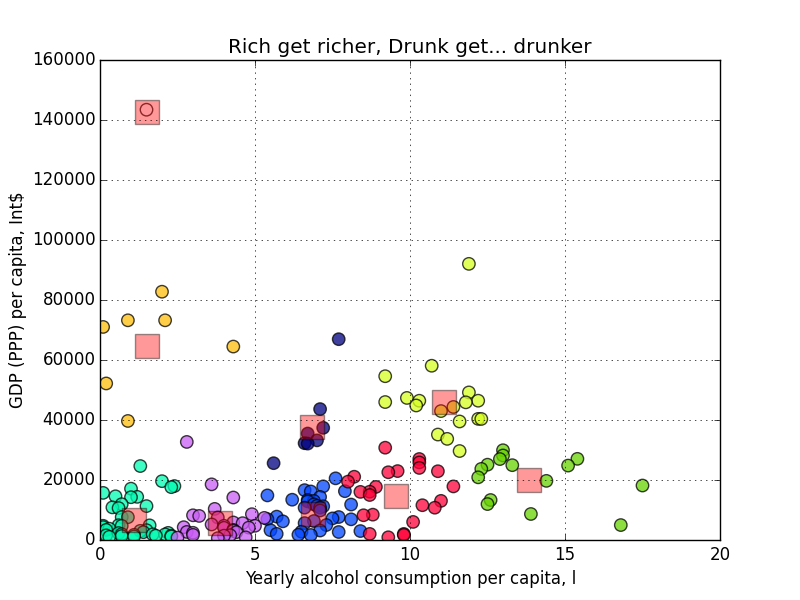
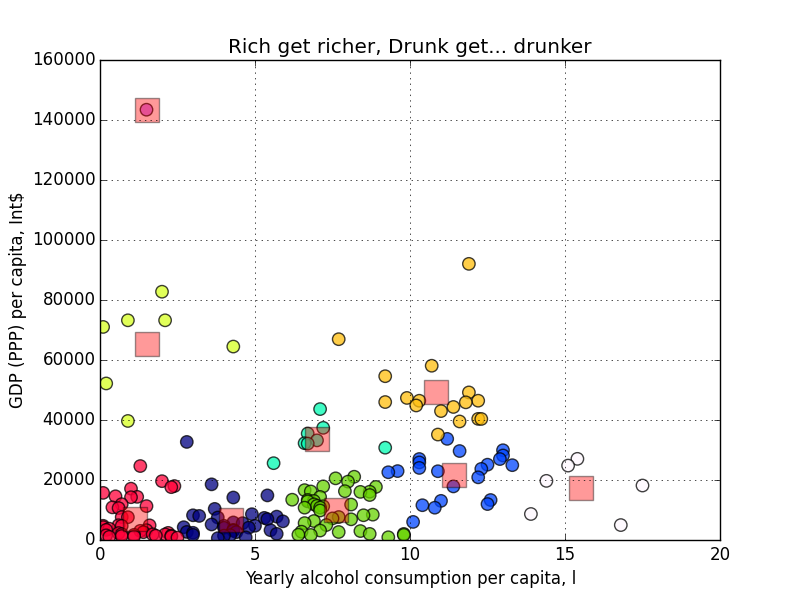
Comments added

diff --git a/EarnNDrink/alcohol.py b/EarnNDrink/alcohol.py
@@ -5,37 +5,57 @@ import pandas as pd
 import sklearn.cluster
 import matplotlib.pyplot as plt
 
-soup1 = BeautifulSoup (urllib.request.urlopen ("https://en.wikipedia.org/wiki/List_of_countries_by_alcohol_consumption_per_capita"))
+ALCO_SOURCE = "https://en.wikipedia.org/wiki/List_of_countries_by_alcohol_consumption_per_capita"
+GDP_SOURCE = "https://en.wikipedia.org/wiki/List_of_countries_by_GDP_(PPP)_per_capita"
 
+# Cook the soup and find sortable tables
+soup1 = BeautifulSoup (urllib.request.urlopen (ALCO_SOURCE))
 tabs1 = soup1.findAll ("table", {"class" : "wikitable sortable"})
 
+# Extract the rows, the headers, and the rest of the data
 rows1 = tabs1[1].findAll ('tr')
 headers1 = ['.'.join (x.text.split ()) for x in rows1[0].findAll ('th')]
 body1 = [[x.text.strip () for x in r.findAll ('td')] for r in rows1[1:]]
+
+# Create a data frame
 alc = pd.DataFrame (body1, columns = headers1)
 alc.set_index (headers1[0], inplace = True)
+
+# Process NAs and convert strings to doubles
 alc[alc == ''] = np.nan
 alc[alc == '-'] = np.nan
 alc = alc.astype (float, copy = False)
 
 print (alc.describe ())
 
-soup2 = BeautifulSoup (urllib.request.urlopen ("https://en.wikipedia.org/wiki/List_of_countries_by_GDP_(PPP)_per_capita"))
+# Cook the soup and find sortable tables
+soup2 = BeautifulSoup (urllib.request.urlopen (GDP_SOURCE))
 tabs2 = soup2.findAll ("table", {"class" : "wikitable sortable"})
+
+# Extract the rows, the headers, and the rest of the data
 rows2 = tabs2[0].findAll ('tr')
 headers2 = ['.'.join (x.text.split ()) for x in rows2[0].findAll ('th')]
 body2 = [[x.text.strip () for x in r.findAll ('td')] for r in rows2[1:]]
+
+# Create a data frame
 gdp = pd.DataFrame (body2, columns = headers2)
 gdp.set_index (headers2[1], inplace = True)
+
+# Process NAs and convert strings to doubles
 gdp[gdp == '—'] = np.nan
 gdp[gdp == '-'] = np.nan
 gdp[gdp == ''] = np.nan
 gdp['Int$'] = gdp['Int$'].str.replace (',', '').astype (float)
+
 print (gdp.describe ())
 
+# Join the data frames by index, remove NA rows
 combined = gdp.join (alc)[['Total', 'Int$']].dropna ()
+
+# Is there any correlation?
 print (combined.corr ())
 
+# Scale the numbers to be in the range [0..1]
 minTotal = combined["Total"].min ()
 rangeTotal = combined["Total"].max () - combined["Total"].min ()
 minIntD = combined["Int$"].min ()
@@ -44,27 +64,35 @@ rangeIntD = combined["Int$"].max () - combined["Int$"].min ()
 combined["Total.n"] = (combined["Total"] - minTotal) / rangeTotal
 combined["Int$.n"] = (combined["Int$"] - minIntD) / rangeIntD
 
+# I want 9 clusters
 NC = 9
 kmeans = sklearn.cluster.KMeans (n_clusters = NC) 
 combined["Cluster"] = kmeans.fit_predict (combined[["Total.n","Int$.n"]])
 combined.sort (["Cluster", "Int$"], ascending = [True, False], inplace = True)
-centers = pd.DataFrame (kmeans.cluster_centers_,
-                        columns = ["Total", "Int$"]) \
-                        * np.array ((rangeTotal, rangeIntD)) \
-                        + np.array (minTotal, minIntD)
+
+# Unscale the cluster centers
+centersDF = pd.DataFrame (kmeans.cluster_centers_, columns = ["Total", "Int$"])
+centers = centersDF * np.array ((rangeTotal, rangeIntD)) \
+    + np.array ((minTotal, minIntD))
                         
+# List the clusters
 print ('\n\n'.join([', '.join (combined[combined["Cluster"] == i].index.values)
                     for i in combined["Cluster"].unique ()]))
 
+# Plot the clustered data
 ax = combined.plot (x = "Total", y = "Int$", kind = "scatter",
                     c = "Cluster", colormap = plt.cm.get_cmap ('gist_ncar', NC),
                     colorbar = False,
                     s = 80, alpha = 0.75, xlim = 0, ylim = 0,
                     title = "Rich get richer, Drunk get... drunker")
+
+# Plot the cluster centers
 centers.plot (x = "Total", y = "Int$", kind = "scatter",
               s = 300, marker = "s", ax = ax, c = "r", alpha = 0.4)
 plt.xlabel ("Yearly alcohol consumption per capita, l")
 plt.ylabel ("GDP (PPP) per capita, Int$")
+
+# Voila!
 plt.savefig ("earn-and-drink.png")
 plt.show ()
 
